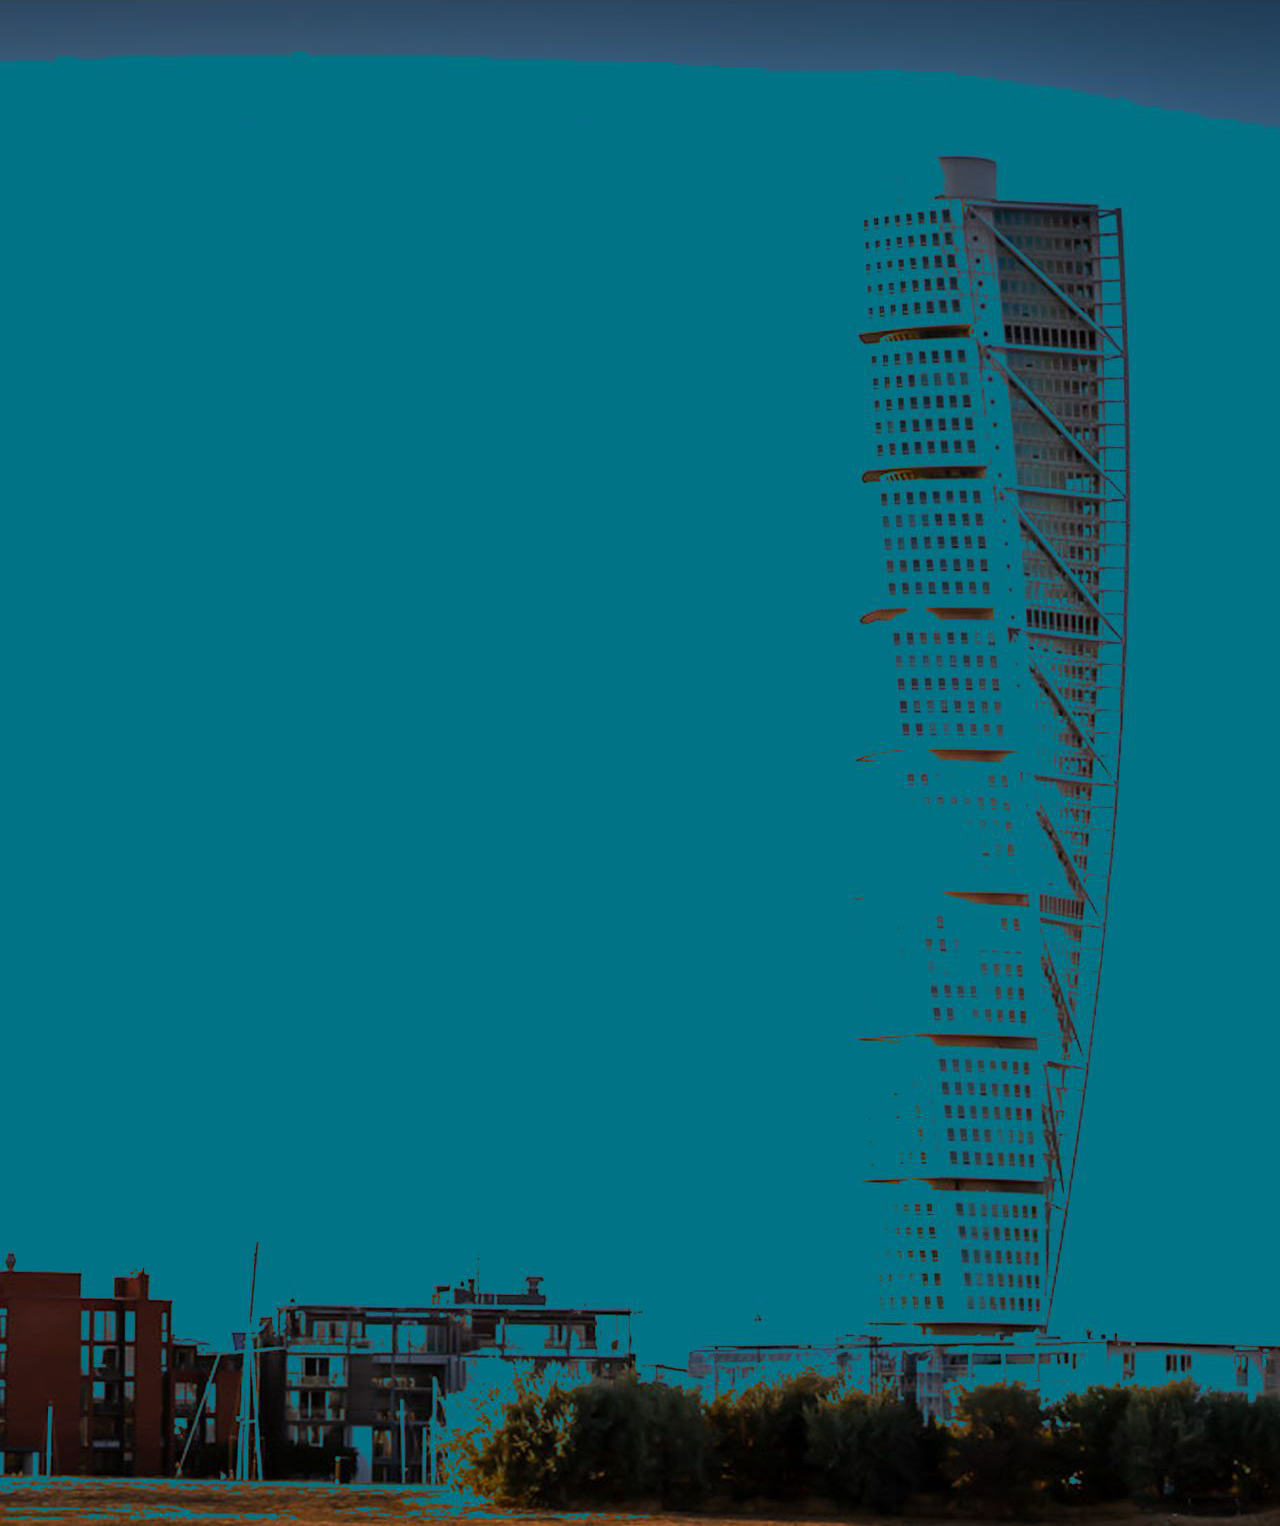
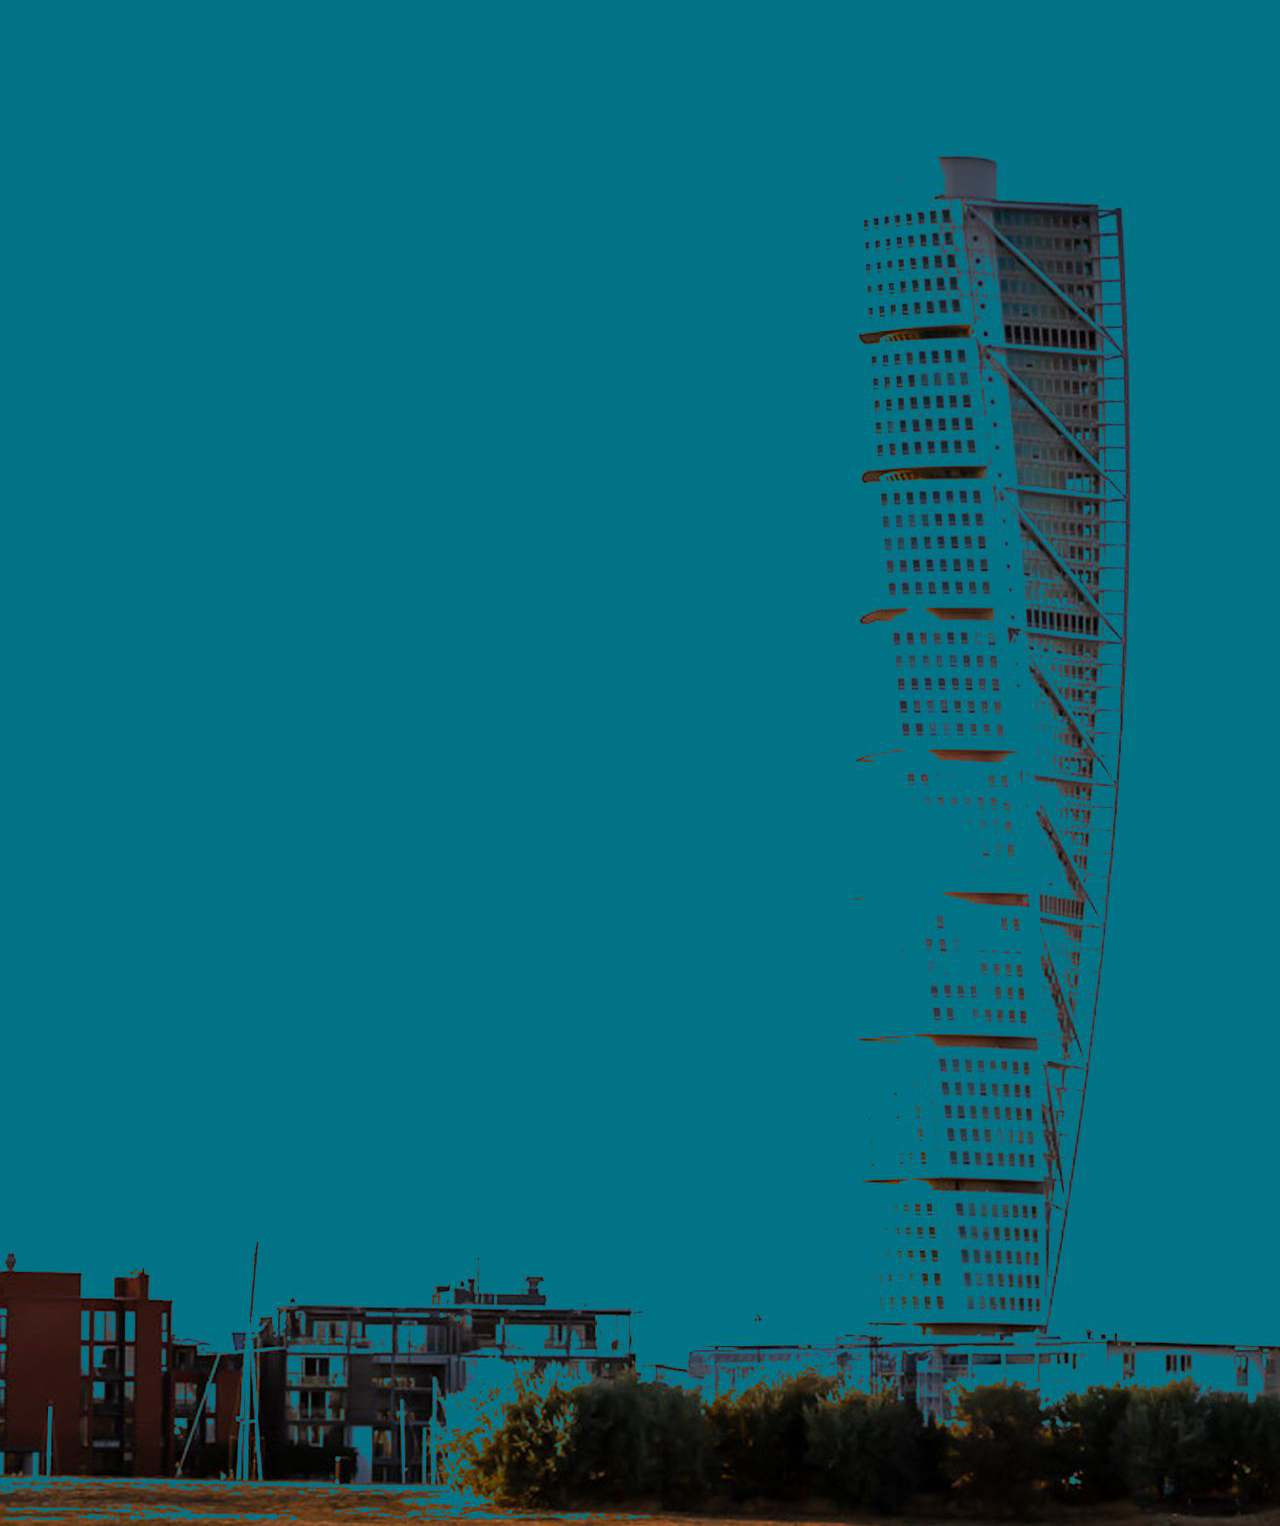
Fix of background image

Changed region(s): [[0.0, 0.0, 1.0, 0.0924]]

diff --git a/components/Introduction.module.css b/components/Introduction.module.css
@@ -1,8 +1,9 @@
 .introduction {
   background-image: url("/additude-tech-eve-background.png");
   background-size: cover;
-  height: 100vh;
-  padding: 4.1rem 2rem;
+  background-position-x: 60px;
+  /* height: 100vh; */
+  padding: 3rem 2rem;
   color: white;
 }
 

diff --git a/components/layout/MainNavigation.module.css b/components/layout/MainNavigation.module.css
@@ -11,7 +11,7 @@
 }
 
 .logo img {
-  width: 40rem;
+  width: 30rem;
 }
 
 .header ul {
